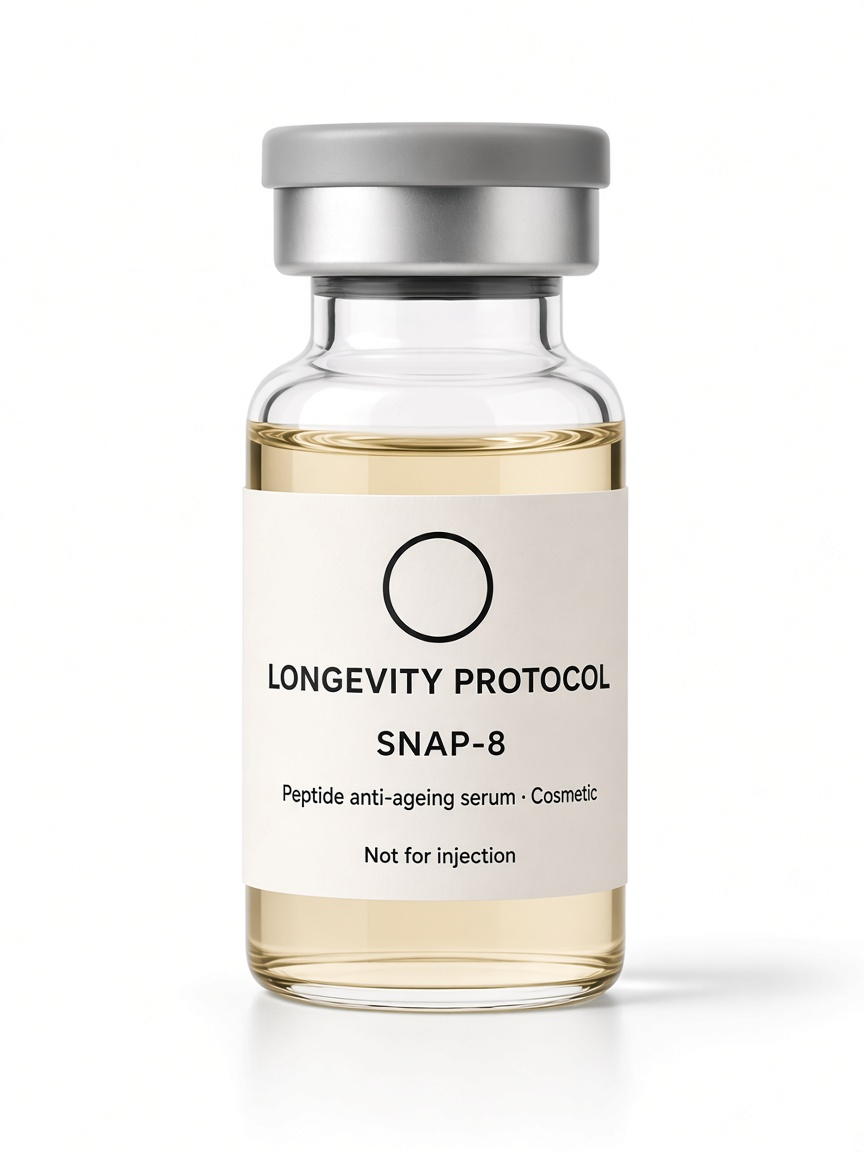
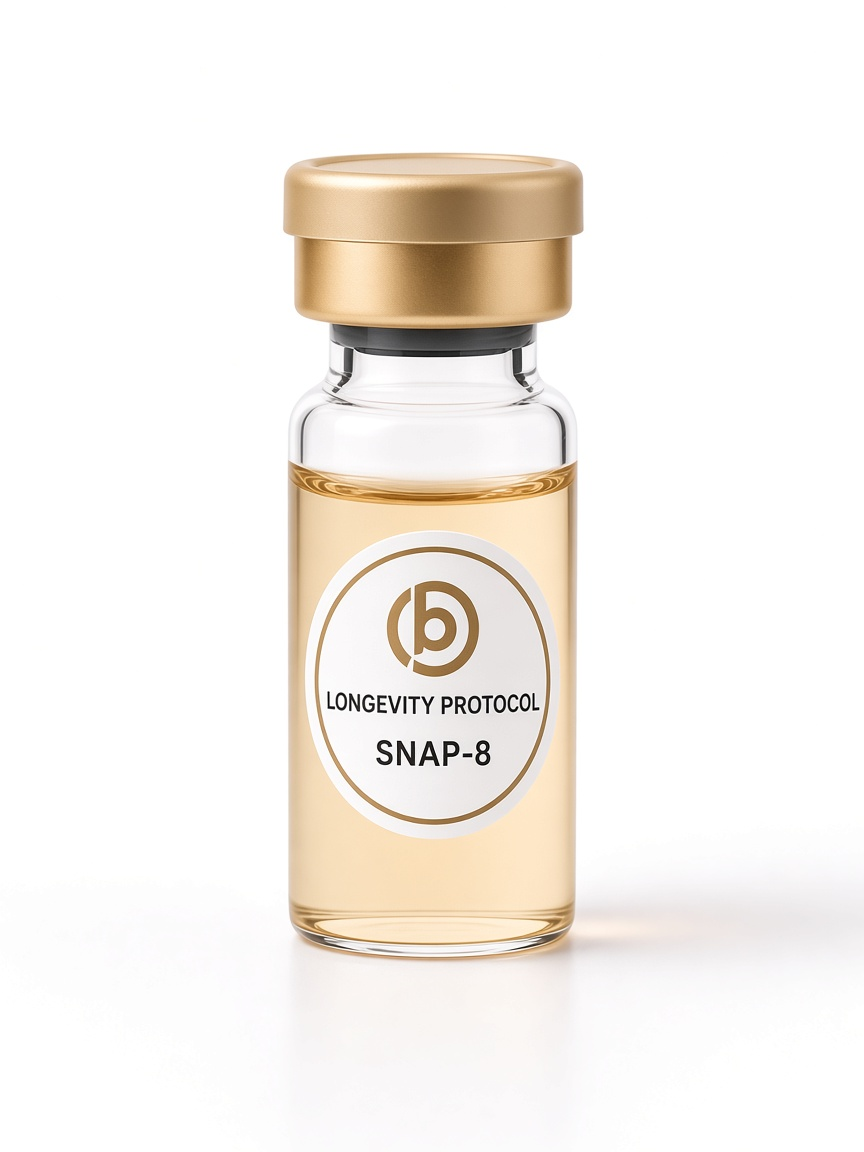
Give Peptides and Microneedling their own menus and group needling SKUs.
Peptides now lists peptides, patches, serums, and needling. Microneedling deep-links to the four devices on one page, and pack photos are updated.

Changed region(s): [[0.2812, 0.0938, 0.9062, 0.9062]]

diff --git a/src/lib/products.ts b/src/lib/products.ts
@@ -13,7 +13,7 @@ const PATCH_SUPPLIER =
 export const products: Product[] = [
   {
     slug: "protocol-needling-pen",
-    name: "Protocol Facial Needling Pen",
+    name: "Professional Facial Needling Pen",
     category: "facial-needling",
     price: "$189",
     summary: "Adjustable cosmetic needling system for at-home complexion routines.",
@@ -26,8 +26,8 @@ export const products: Product[] = [
   },
   {
     slug: "disposable-micro-infusion-stamps",
-    name: "Disposable Micro-Infusion Stamps",
-    category: "pen-accessories",
+    name: "Disposable Micro-Infusion",
+    category: "facial-needling",
     price: "$48",
     summary:
       "Single-use hydra stamp heads with a serum chamber and gold needle plate. Offered in 0.25 mm and 0.5 mm cosmetic depths. Do not share. Dispose as sharps.",
@@ -142,7 +142,7 @@ export const products: Product[] = [
   {
     slug: "pen-cartridge-pack",
     name: "Disposable Stamp Head Pack",
-    category: "pen-accessories",
+    category: "facial-needling",
     price: "$39",
     summary:
       "Sealed single-use micro-infusion stamp heads for the protocol. One head, one session. Do not share.",
@@ -199,7 +199,7 @@ export const products: Product[] = [
   {
     slug: "cartridge-injector",
     name: "Protocol 3 mL Cartridge Injector",
-    category: "pen-accessories",
+    category: "facial-needling",
     price: "$54",
     summary: "Disposable multi-dose 3 mL cartridge injector for protocol cosmetic use. Research-only compounds cannot be purchased here.",
     image: "/images/product-cartridge-injector.jpg",
@@ -319,19 +319,20 @@ export const shopCategories: Record<
     filter: "bundles",
   },
   "facial-needling": {
-    title: "Facial needling",
-    intro: "Cosmetic facial needling pens for at-home complexion protocols.",
+    title: "Microneedling",
+    intro:
+      "Professional facial needling pen, disposable micro-infusion, disposable stamp head pack, and the protocol 3 mL cartridge injector. Cosmetic devices only — not for injectable research compounds.",
     filter: "facial-needling",
   },
   "pen-accessories": {
-    title: "Pen accessories",
-    intro: "Stamp heads, hydra stamps, and a 3 mL cartridge injector for the protocol pen. Dispose as sharps. Do not share.",
+    title: "Accessories",
+    intro: "Hygiene kit, nitrile gloves, alcohol prep pads, and the peptide cooling case.",
     filter: "pen-accessories",
   },
   peptides: {
     title: "Peptides",
     intro:
-      "Leave-on peptide serums and oral NAD+ tablets you can add to the cart. Research-only and injectable peptides stay in the encyclopaedia and are not sold.",
+      "Four shop groups: peptides, patches, serums, and needling. Oral NAD+ tablets sit here with the leave-on range. Research-only and injectable peptides stay in the encyclopaedia and are not sold.",
     filter: "peptides",
   },
   "peptide-serums": {
@@ -380,6 +381,20 @@ export const shopCategories: Record<
   },
 };
 
+export const MICRONEEDLING_PRODUCT_SLUGS = [
+  "protocol-needling-pen",
+  "disposable-micro-infusion-stamps",
+  "pen-cartridge-pack",
+  "cartridge-injector",
+] as const;
+
+export const ACCESSORIES_PRODUCT_SLUGS = [
+  "prep-hygiene-kit",
+  "nitrile-gloves",
+  "alcohol-prep-pads",
+  "cooling-case",
+] as const;
+
 export function productsForCategory(slug?: string) {
   if (!slug) return products;
   if (slug === "best-sellers") {
@@ -388,10 +403,26 @@ export function productsForCategory(slug?: string) {
   if (slug === "new") return products.filter((p) => p.badge === "New");
   if (slug === "bundles") return products.filter((p) => p.category === "bundles");
   if (slug === "peptides") {
-    return products.filter((p) => p.category === "peptide-serums" || p.category === "tablets");
+    return products.filter(
+      (p) =>
+        p.category === "peptide-serums" ||
+        p.category === "patches" ||
+        p.category === "tablets" ||
+        MICRONEEDLING_PRODUCT_SLUGS.includes(p.slug as (typeof MICRONEEDLING_PRODUCT_SLUGS)[number]),
+    );
+  }
+  if (slug === "facial-needling") {
+    return MICRONEEDLING_PRODUCT_SLUGS.map((s) => products.find((p) => p.slug === s)).filter(
+      (p): p is Product => Boolean(p),
+    );
   }
   if (slug === "peptide-patches") {
     return products.filter((p) => p.category === "patches");
+  }
+  if (slug === "pen-accessories") {
+    return ACCESSORIES_PRODUCT_SLUGS.map((s) => products.find((p) => p.slug === s)).filter(
+      (p): p is Product => Boolean(p),
+    );
   }
   return products.filter((p) => p.category === slug);
 }

diff --git a/src/lib/navigation.ts b/src/lib/navigation.ts
@@ -36,7 +36,7 @@ export const siteCategories: SiteCategory[] = [
     href: "/shop/peptides",
     navLabel: "Peptides",
     label: "Peptides",
-    copy: "Leave-on peptide serums and oral NAD+ tablets. Research-only injectables are not sold.",
+    copy: "Peptides, patches, serums, and needling — leave-on cosmetics and devices. Research-only injectables are not sold.",
     tone: "purchase",
   },
   {
@@ -44,7 +44,7 @@ export const siteCategories: SiteCategory[] = [
     href: "/shop/facial-needling",
     navLabel: "Microneedling",
     label: "Microneedling",
-    copy: "Micro-infusion and facial needling for cosmetic protocols.",
+    copy: "Professional facial needling pen, disposable micro-infusion, stamp head pack, and 3 mL cartridge injector.",
     tone: "product",
   },
   {
@@ -57,17 +57,51 @@ export const siteCategories: SiteCategory[] = [
   },
 ];
 
+/** Peptides menu: four shop groups. */
+export const peptidesNav: NavLink[] = [
+  { label: "Peptides", href: "/shop/peptides" },
+  { label: "Patches", href: "/shop/peptide-patches" },
+  { label: "Serums", href: "/shop/peptide-serums" },
+  { label: "Needling", href: "/shop/facial-needling" },
+];
+
+export const microneedlingNav: NavLink[] = [
+  { label: "Professional facial needling pen", href: "/shop/facial-needling#protocol-needling-pen" },
+  { label: "Disposable micro-infusion", href: "/shop/facial-needling#disposable-micro-infusion-stamps" },
+  { label: "Disposable stamp head pack", href: "/shop/facial-needling#pen-cartridge-pack" },
+  { label: "Protocol 3 mL cartridge injector", href: "/shop/facial-needling#cartridge-injector" },
+];
+
 export const shopNav: NavLink[] = [
   { label: "All", href: "/shop" },
-  { label: "Peptides", href: "/shop/peptides" },
-  { label: "Peptide patches", href: "/shop/peptide-patches" },
+  ...peptidesNav,
   { label: "Bundles", href: "/shop/bundles" },
-  { label: "Needling", href: "/shop/facial-needling" },
-  { label: "Serums", href: "/shop/peptide-serums" },
   { label: "Cooling & Storage", href: "/shop/cooling-storage" },
   { label: "Preparation & Hygiene", href: "/shop/preparation-hygiene" },
-  { label: "Accessories", href: "/shop/pen-accessories" },
 ];
+
+const peptideShopHrefs = ["/shop/peptides", "/shop/peptide-patches", "/shop/peptide-serums", "/shop/patches", "/shop/tablets"];
+
+export function isPeptidesShopPath(pathname: string) {
+  return peptideShopHrefs.some((href) => pathname === href || pathname.startsWith(`${href}/`));
+}
+
+export function navItemIsActive(item: NavItem, pathname: string) {
+  if (item.label === "Shop") {
+    if (pathname === "/shop") return true;
+    if (!pathname.startsWith("/shop/")) return false;
+    if (isPeptidesShopPath(pathname)) return false;
+    if (pathname === "/shop/facial-needling" || pathname.startsWith("/shop/pen-accessories")) return false;
+    return true;
+  }
+  if (item.label === "Peptides") {
+    return isPeptidesShopPath(pathname);
+  }
+  if (item.label === "Microneedling") {
+    return pathname === "/shop/facial-needling" || pathname.startsWith("/shop/pen-accessories");
+  }
+  return pathname === item.href || pathname.startsWith(`${item.href}/`);
+}
 
 export const shopConcernNav: NavLink[] = [
   { label: "Menopause skin", href: "/concerns/menopause" },
@@ -133,7 +167,7 @@ export const homeFeaturedProductSlugs = [
 ];
 
 export const shopPeptidesIntro =
-  "Leave-on peptide cosmetics, needling tools, NAD+ tablets, GLP-1 and NAD+ patches, storage and hygiene. Research-only and injectable peptides are not sold.";
+  "Peptides, patches, serums, and needling — plus storage and hygiene. Research-only and injectable peptides are not sold.";
 
 export const primaryNav: NavItem[] = [
   {
@@ -149,13 +183,13 @@ export const primaryNav: NavItem[] = [
     label: "Peptides",
     href: "/shop/peptides",
     description: siteCategories[1].copy,
-    groups: [],
+    groups: [{ heading: "Peptides", links: peptidesNav }],
   },
   {
     label: "Microneedling",
     href: "/shop/facial-needling",
     description: siteCategories[2].copy,
-    groups: [],
+    groups: [{ heading: "Microneedling", links: microneedlingNav }],
   },
   {
     label: "Learn",

diff --git a/src/components/Header.tsx b/src/components/Header.tsx
@@ -8,7 +8,7 @@ import { PromoBanner } from "@/components/PromoBanner";
 import { ShopSearch } from "@/components/ShopSearch";
 import { SocialLinks } from "@/components/SocialLinks";
 import { useCart } from "@/components/CartProvider";
-import { primaryNav } from "@/lib/navigation";
+import { navItemIsActive, primaryNav } from "@/lib/navigation";
 
 export function Header() {
   const pathname = usePathname();
@@ -31,13 +31,7 @@ export function Header() {
         <nav className="hidden items-center lg:flex" aria-label="Primary">
           {primaryNav.map((item) => {
             const hasMenu = item.groups.some((g) => g.links.length > 0);
-            const active =
-              item.label === "Shop"
-                ? pathname === "/shop" ||
-                  (pathname.startsWith("/shop/") &&
-                    pathname !== "/shop/peptides" &&
-                    !pathname.startsWith("/shop/peptides/"))
-                : pathname === item.href || pathname.startsWith(`${item.href}/`);
+            const active = navItemIsActive(item, pathname);
             return (
               <div key={`${item.label}-${item.href}`} className="group relative">
                 <Link

diff --git a/src/components/ShopCatalog.tsx b/src/components/ShopCatalog.tsx
@@ -40,7 +40,11 @@ export function ProductGrid({ items }: { items: Product[] }) {
   return (
     <div className="mx-auto grid max-w-7xl gap-4 px-4 py-10 sm:grid-cols-2 lg:grid-cols-3 lg:px-6">
       {items.map((product) => (
-        <article key={product.slug} className="border border-line bg-paper p-5">
+        <article
+          key={product.slug}
+          id={product.slug}
+          className="scroll-mt-36 border border-line bg-paper p-5"
+        >
           <ProductPhoto
             src={product.image}
             alt={product.name}

diff --git a/src/components/BrandLogo.tsx b/src/components/BrandLogo.tsx
@@ -44,8 +44,8 @@ export function ProductPackLabel({
     <div
       className={`pointer-events-none absolute left-1/2 z-10 -translate-x-1/2 -translate-y-1/2 bg-[#152536]/95 text-center ${
         compact
-          ? "top-[54%] w-[22%] max-w-[118px] px-1.5 py-2"
-          : "top-[53%] w-[20%] max-w-[150px] px-2.5 py-3"
+          ? "top-[50%] w-[22%] max-w-[118px] px-1.5 py-2"
+          : "top-[50%] w-[20%] max-w-[150px] px-2.5 py-3"
       }`}
       aria-hidden="true"
     >
